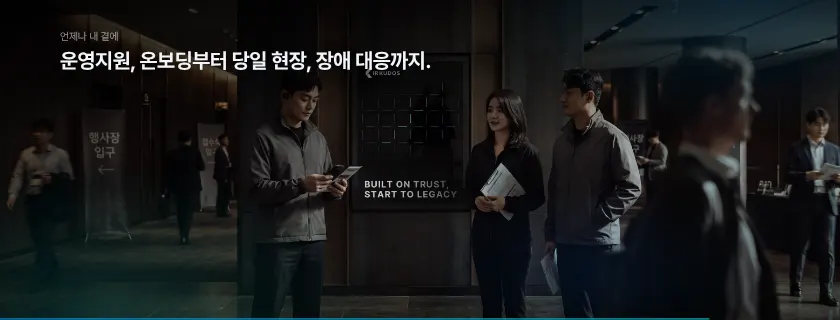
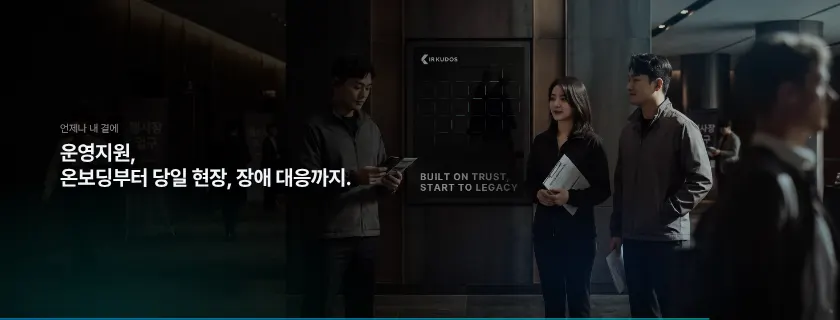
세션4 K27 처음 제목 한 줄만 가운데 크게 → 전환 → 왼쪽 세로 가운데 두 줄 + 사진, K30 Get Ready 점 형성 약 2배 빠르게
Claude-Session: https://claude.ai/code/session_01Mn7NmyW5iujmmHnaRBFKBZ

diff --git a/session4.html b/session4.html
@@ -2308,6 +2308,25 @@ html.r169 #K13 .dg{margin-bottom:210px!important}
 #K26 .k26p .sc{border-radius:52px!important}
 #K26 .k26s{left:3300px!important;height:1082px!important;align-items:flex-start!important;text-align:left!important;padding:0 72px 80px!important;box-sizing:border-box}
 #K26 .k26s i{background-position:62% 30%!important;background-size:cover!important}
+
+/* 11/27 23:52 K27: 처음엔 제목 한 줄만 화면 가운데 크게 → 1.9초에 흐려지며 전환 → 왼쪽 세로 가운데에 「언제나 내 곁에」 + 「운영지원, / 온보딩부터 …」(두 줄) + 사진 */
+#K27 .k27i{position:absolute;inset:0;display:flex;align-items:center;justify-content:center;z-index:5;pointer-events:none}
+#K27 .k27i h2{margin:0;font:700 132px/1.2 "Pretendard Variable",sans-serif;color:#F2F5FA;letter-spacing:-.02em;white-space:nowrap;opacity:0}
+html.r169 #K27 .k27i h2{font-size:104px}
+.s.cur#K27 .k27i h2{animation:k27in 2.3s cubic-bezier(.2,.7,.2,1) .15s both}
+@keyframes k27in{0%{opacity:0;filter:blur(14px);transform:scale(1.04)}22%{opacity:1;filter:blur(0);transform:none}72%{opacity:1;filter:blur(0);transform:none}100%{opacity:0;filter:blur(16px);transform:scale(.97)}}
+#K27 .sec-c{justify-content:center!important;padding:0 0 40px!important;opacity:0}
+.s.cur#K27 .sec-c{animation:k27f .9s cubic-bezier(.2,.7,.2,1) 2.1s both!important}
+@keyframes k27f{from{opacity:0;translate:-40px 0}to{opacity:1;translate:0 0}}
+#K27 .sec-h{font-size:112px!important;line-height:1.22!important}
+html.r169 #K27 .sec-c{padding:0 0 40px!important}
+html.r169 #K27 .sec-h{font-size:96px!important}
+.s.cur#K27 .photo{animation:k27p2 1.6s cubic-bezier(.2,.7,.2,1) 1.9s both!important}
+.s.cur#K27 .shade{animation:k27s .1s linear 1.9s both!important}
+#K27.sec .shade{background:linear-gradient(90deg,rgba(0,0,0,.82) 0%,rgba(0,0,0,.6) 30%,rgba(0,0,0,.15) 55%,rgba(0,0,0,0) 70%),linear-gradient(0deg,rgba(0,0,0,.35) 0%,rgba(0,0,0,0) 18%)!important}
+#K27.sec .shade{background:linear-gradient(90deg,rgba(0,0,0,.88) 0%,rgba(0,0,0,.74) 36%,rgba(0,0,0,.3) 52%,rgba(0,0,0,0) 66%),linear-gradient(0deg,rgba(0,0,0,.35) 0%,rgba(0,0,0,0) 18%)!important}
+#K27 .photo{background-size:114% auto!important;background-position:0% bottom!important}
+#K27 .sec-h{font-size:104px!important}
 /* ═════ 16:9 버전 (?a=16x9, 11/27) ═════
    ※ 빔프로젝터(led.html?a=16x9) M7-7이 이 모드를 씀. 장을 고치면 ?a=16x9로도 확인하고, 21:8 원본 위치를 바꾸면 아래 html.r169 #Kxx 규칙도 같이 맞출 것.
       R169Z(묶음 축소) 장은 내용 범위를 자동으로 재서 배치하므로 대부분 따라감.
@@ -2846,7 +2865,7 @@ html.r169 #K28p .k28bg{top:800px}
 <!-- ═════════ 6. 운영지원 ═════════ -->
 <section class="s ch sec fl" id="K27" data-t="장 표지 · 운영지원" data-dim="0">
  <div class="photo"></div><div class="shade"></div><div class="au"></div>
- <div class="sec-c"><p class="k27e fu" style="--i:0">언제나 내 곁에</p><h2 class="sec-h fu" style="--i:1">운영지원, 온보딩부터 당일 현장, 장애 대응까지.</h2></div>
+ <div class="k27i"><h2>운영지원, 온보딩부터 당일 현장, 장애 대응까지.</h2></div><div class="sec-c"><p class="k27e">언제나 내 곁에</p><h2 class="sec-h">운영지원,<br>온보딩부터 당일 현장, 장애 대응까지.</h2></div>
 </section>
 
 <section class="s" id="K28a" data-t="운영지원 1 · 온보딩" data-dim=".1">
@@ -3210,19 +3229,20 @@ const VIZ={};
 const C1=[0,129,204],C2=[0,173,169];const mix=(t)=>`rgb(${C1.map((c,i)=>Math.round(c+(C2[i]-c)*t)).join(',')})`;
 function textPts(cv,text,font,gap){const o=document.createElement('canvas');o.width=cv.width;o.height=cv.height;const g=o.getContext('2d');g.fillStyle='#fff';g.font=font;g.textAlign='center';g.textBaseline='middle';g.fillText(text,o.width/2,o.height/2+o.height*.03);const d=g.getImageData(0,0,o.width,o.height).data,p=[];for(let y=0;y<o.height;y+=gap)for(let x=0;x<o.width;x+=gap)if(d[(y*o.width+x)*4+3]>(cv.dataset.th?+cv.dataset.th:128))p.push([x+(Math.random()-.5)*2,y+(Math.random()-.5)*2]);return p;}
 VIZ.text=(cv)=>{const g=cv.getContext('2d'),S=cv.closest('section');let P=null,H=null,t0=0,tl=0,tp=0;
+ /* 11/27 23:55 형성 속도 약 2배(지연 0.1~0.6초 · 1초 동안 모임) */
  /* 11/27 21:20 K30: 글씨 점이 화면 바깥 사방에서 안으로 모여 「Get Ready.」를 이룸(가까운 점부터), 주변 작은 점은 Data Stream처럼 떠다님.
     로고 벽으로 넘어갈 때(p2)는 반대로 점이 바깥으로 퍼지며 사라지고, 그 뒤 기업 목록이 켜짐 */
  const out=(x,y)=>{const cx=cv.width/2,cy=cv.height/2,a=Math.atan2(y-cy,x-cx)+(Math.random()-.5)*1.2,R=cv.width*(.55+Math.random()*.5);return[cx+Math.cos(a)*R,cy+Math.sin(a)*R*.6];};
  return{enter(){const pts=textPts(cv,cv.dataset.text,cv.dataset.font,cv.dataset.text.length>5?17:20);
-   P=pts.map(([x,y])=>{const[sx,sy]=out(x,y),[ex,ey]=out(x,y);return{x,y,sx,sy,ex,ey,d:200+Math.random()*1100,de:Math.random()*350,r:4.2+Math.random()*2.4};});
-   H=[...Array(1700)].map(()=>{const b=pts[Math.floor(Math.random()*pts.length)],a=Math.random()*Math.PI*2,dist=20+Math.pow(Math.random(),1.6)*600;return{x:b[0]+Math.cos(a)*dist*1.6,y:b[1]+Math.sin(a)*dist*.75,ox:b[0],oy:b[1],r:1.8+Math.random()*3.4,al:.3+Math.random()*.6,ph:Math.random()*7,sp:.3+Math.random()*.9,d:1600+Math.random()*1400,dr:dist};});t0=performance.now();tl=t0;tp=0;},
+   P=pts.map(([x,y])=>{const[sx,sy]=out(x,y),[ex,ey]=out(x,y);return{x,y,sx,sy,ex,ey,d:100+Math.random()*500,de:Math.random()*350,r:4.2+Math.random()*2.4};});
+   H=[...Array(1700)].map(()=>{const b=pts[Math.floor(Math.random()*pts.length)],a=Math.random()*Math.PI*2,dist=20+Math.pow(Math.random(),1.6)*600;return{x:b[0]+Math.cos(a)*dist*1.6,y:b[1]+Math.sin(a)*dist*.75,ox:b[0],oy:b[1],r:1.8+Math.random()*3.4,al:.3+Math.random()*.6,ph:Math.random()*7,sp:.3+Math.random()*.9,d:900+Math.random()*800,dr:dist};});t0=performance.now();tl=t0;tp=0;},
  draw(t){if(!P)return;tl=t;const p2=S&&S.classList.contains('p2');if(p2&&!tp)tp=t;if(!p2)tp=0;
   g.clearRect(0,0,cv.width,cv.height);g.fillStyle='#F2F5FA';
   const X=tp?Math.min(1,(t-tp)/1400):0;  /* 퍼짐 진행 */
-  for(const p of P){let k=Math.min(1,Math.max(0,(t-t0-p.d)/1700));k=1-Math.pow(1-k,3);let x=p.sx+(p.x-p.sx)*k,y=p.sy+(p.y-p.sy)*k+Math.sin(t/900+p.x*.02)*2*k,a=.15+.85*k;
+  for(const p of P){let k=Math.min(1,Math.max(0,(t-t0-p.d)/1000));k=1-Math.pow(1-k,3);let x=p.sx+(p.x-p.sx)*k,y=p.sy+(p.y-p.sy)*k+Math.sin(t/900+p.x*.02)*2*k,a=.15+.85*k;
    if(tp){let q=Math.min(1,Math.max(0,(t-tp-p.de)/1100));q=q*q*q;x+=(p.ex-x)*q;y+=(p.ey-y)*q;a*=1-q;}
    if(a<=.01)continue;g.globalAlpha=a;g.beginPath();g.arc(x,y,p.r,0,7);g.fill();}
-  for(const h of H){const k=Math.min(1,Math.max(0,(t-t0-h.d)/1800));if(k<=0)continue;const e=1-Math.pow(1-k,3),w=t/1000*h.sp+h.ph;
+  for(const h of H){const k=Math.min(1,Math.max(0,(t-t0-h.d)/1200));if(k<=0)continue;const e=1-Math.pow(1-k,3),w=t/1000*h.sp+h.ph;
    let x=h.ox+(h.x-h.ox)*e+Math.cos(w)*14,y=h.oy+(h.y-h.oy)*e+Math.sin(w*1.3)*9,a=h.al*e*(.55+.45*Math.sin(w*2.1))*(1-Math.min(1,h.dr/560)*.5);
    if(tp){const q=X*X;x+=(x-cv.width/2)*q*1.2;y+=(y-cv.height/2)*q*1.2;a*=1-X;}
    if(a<=.01)continue;g.globalAlpha=a;g.beginPath();g.arc(x,y,h.r,0,7);g.fill();}

diff --git a/sw.js b/sw.js
@@ -1,5 +1,5 @@
 /* 오프라인 캐시 — 온라인 주소(https)로 한 번 열면 모든 파일을 저장해 두고, 통신이 끊겨도 저장본으로 동작합니다. */
-const V='seminar-screen-11272327';
+const V='seminar-screen-11272329';
 const FILES=["./","assets/KakaoBigSans-Bold.woff2","assets/KakaoBigSans-Regular.woff2","assets/KakaoSmallSans-Bold.woff2","assets/KakaoSmallSans-Light.woff2","assets/KakaoSmallSans-Regular.woff2","assets/OrbitControls.js","assets/PretendardVariable.woff2","assets/attendees.js","assets/blue-bloom.html","assets/cong1.webp","assets/cong2.webp","assets/ds-bg.html","assets/four-states.html","assets/intro.mp4","assets/irk-white.svg","assets/irk-wordmark-white.svg","assets/kism-intro.mp4","assets/kism-white.svg","assets/ksmp-white.svg","assets/panel.js","assets/qa-online.js","assets/s2/img1.png","assets/s2/img2.png","assets/s2/img3.png","assets/s2/img4.png","assets/s4/aws.webp","assets/s4/callcenter.webp","assets/s4/chair-1.webp","assets/s4/chair-2.webp","assets/s4/chair-3.webp","assets/s4/conexus-word.webp","assets/s4/ctl-1.webp","assets/s4/cx-1.webp","assets/s4/cx-2.webp","assets/s4/cx-3.webp","assets/s4/cx-flow.mp4","assets/s4/cx-pop1.webp","assets/s4/cx-pop2.webp","assets/s4/cx-vote.mp4","assets/s4/cx-vote.webp","assets/s4/cxs-1.webp","assets/s4/insurance.webp","assets/s4/isms-t.webp","assets/s4/isms.webp","assets/s4/ismsp-t.webp","assets/s4/ismsp.webp","assets/s4/kosmos-white.png","assets/s4/ks-1.webp","assets/s4/ks-2.webp","assets/s4/ks-3.webp","assets/s4/ks-4.webp","assets/s4/ks-5.webp","assets/s4/ks-video.webp","assets/s4/live-1.webp","assets/s4/live-2.webp","assets/s4/live-3.webp","assets/s4/live-4.webp","assets/s4/live-5.webp","assets/s4/live-6.webp","assets/s4/live-7.webp","assets/s4/live-8.webp","assets/s4/logos.webp","assets/s4/ocr-1.webp","assets/s4/ocr-2.webp","assets/s4/ocr-3.webp","assets/s4/ocr-4.webp","assets/s4/ocr-5.webp","assets/s4/on-1.png","assets/s4/on-2.webp","assets/s4/on-3.webp","assets/s4/on-4.png","assets/s4/on-5.webp","assets/s4/onboard-1.webp","assets/s4/onboard-2.webp","assets/s4/privacy.webp","assets/s4/proxymity.svg","assets/s4/rehearsal.webp","assets/s4/streaming-korea.webp","assets/s4/tab-1.webp","assets/s4/tab-2.webp","assets/s4/team.webp","assets/sched.js","assets/screen-title-2.svg","assets/screen-title-b-text.svg","assets/screen-title-b.svg","assets/seat-banners.js","assets/seat-fascia.js","assets/seat-screen.js","assets/seatmap.js","assets/service-intro.mp4","assets/speaker-scott.webp","assets/speaker1-1.webp","assets/speaker2.webp","assets/speaker3-1.webp","assets/supabase.min.js","assets/three.min.js","assets/title-logos.svg","control.html","index-fs.html","index.html","kism.html","lobby/cuts.html","lobby/index.html","mc.html","session2.html","session4.html","sw.js","tools/s2_build.py","tools/s2_shell.html","assets/s3/p01.webp","assets/s3/p02.webp","assets/s3/p03.webp","assets/s3/p04.webp","assets/s3/p05.webp","assets/s3/p06.webp","assets/s3/p07.webp","assets/s3/p08.webp","assets/s3/p09.webp","assets/s3/p10.webp","assets/s3/p11.webp","assets/s3/p12.webp","assets/s3/p13.webp","assets/s3/p14.webp","assets/s3/p15.webp","assets/s3/p16.webp","assets/s3/p17.webp","assets/s3/p18.webp","assets/s3/p19.webp","assets/s3/p20.webp","assets/s3/p21.webp","assets/s3/p22.webp","assets/s3/p23.webp","assets/kism/photo-main.webp","assets/kism/photo-2.webp","assets/kism/photo-3.webp","assets/kism/photo-4.webp","assets/sound/countdown-tick.mp3","assets/sound/sfx-s3-part.mp3","assets/sound/sfx-s4-reveal.mp3","assets/sound/sfx-s5-proxymity.mp3","assets/sound/sfx-s6-chime.mp3","assets/sound/sfx-s7-close.mp3","assets/sound/sfx-k-chapter.mp3","assets/sound/sfx-k-close.mp3","assets/sound/opening-hit.mp3","assets/s4/kosmos-color.svg","assets/s4/ke-logo.png","assets/s4/ke-live.mp4","assets/kism/kwon-talk.mp4","assets/kism/manual-book.webp","kism-open.html","kism_16x9.html","led.html","assets/s4/cx-ops.mp4","assets/s4/cx-ops.webp","assets/s4/agent-app.mp4","assets/s4/kosmos-web.webp","assets/s4/ks-attend.mp4","assets/s4/ks-attend.webp","assets/s4/ks-switch.mp4","assets/s4/ks-switch.webp","assets/s4/ks-notify.mp4","assets/s4/ks-notify.webp","assets/s4/ks-vote.mp4","assets/s4/ks-vote.webp","assets/s4/ks-qna.mp4","assets/s4/ks-qna.webp","assets/s4/pc-map.webp","assets/s4/pc-map.mp4","assets/s4/pc-web.mp4","assets/s4/pc-web.webp","assets/s4/agent-app.webp","assets/s4/k24b-bg.webp","session0.html","face.html","assets/face-link.js","assets/kism/photo-main-cut.webp","assets/s4/cx-chair.mp4","assets/s4/cx-chair.webp","assets/s4/cx-test.mp4","assets/s4/cx-test.webp","assets/s4/onboard-mgr.webp","assets/s4/proxymity-logo.png","assets/s4/k21-bg.webp","assets/s4/kosmos-admin-white.svg","assets/kism-intro-16x9.mp4","assets/seat-guide.html","assets/s4/app-icon-agent.svg","assets/ds-main.mp4","assets/s4/k2-agency.webp","assets/s4/k2-support.webp","assets/s4/thumbs/K00.webp","assets/s4/thumbs/K01.webp","assets/s4/thumbs/K02.webp","assets/s4/thumbs/K03.webp","assets/s4/thumbs/K04.webp","assets/s4/thumbs/K05.webp","assets/s4/thumbs/K06.webp","assets/s4/thumbs/K07.webp","assets/s4/thumbs/K08.webp","assets/s4/thumbs/K09.webp","assets/s4/thumbs/K10.webp","assets/s4/thumbs/K11.webp","assets/s4/thumbs/K12.webp","assets/s4/thumbs/K13.webp","assets/s4/thumbs/K14.webp","assets/s4/thumbs/K15.webp","assets/s4/thumbs/K16.webp","assets/s4/thumbs/K17.webp","assets/s4/thumbs/K18a.webp","assets/s4/thumbs/K18b.webp","assets/s4/thumbs/K18c.webp","assets/s4/thumbs/K19.webp","assets/s4/thumbs/K19b.webp","assets/s4/thumbs/K19c.webp","assets/s4/thumbs/K20.webp","assets/s4/thumbs/K21.webp","assets/s4/thumbs/K21b.webp","assets/s4/thumbs/K22s.webp","assets/s4/thumbs/K23.webp","assets/s4/thumbs/K23b.webp","assets/s4/thumbs/K24a.webp","assets/s4/thumbs/K24b.webp","assets/s4/thumbs/K24c.webp","assets/s4/thumbs/K25.webp","assets/s4/thumbs/K25b.webp","assets/s4/thumbs/K26.webp","assets/s4/thumbs/K27.webp","assets/s4/thumbs/K28a.webp","assets/s4/thumbs/K28b.webp","assets/s4/thumbs/K28c.webp","assets/s4/thumbs/K28d.webp","assets/s4/thumbs/K29.webp","assets/s4/thumbs/K30.webp","assets/s4/thumbs/K09b.webp","assets/s4/thumbs/K28e.webp","assets/s4/thumbs/K28p.webp","assets/s4/onsite-vote.mp4","assets/s4/onsite-vote.webp","assets/s4/rehearsal-site.webp","assets/qr-ask.svg","assets/inv/bnp.png","assets/inv/bny.png","assets/inv/citi.png","assets/inv/computershare.png","assets/inv/deutsche-bank.png","assets/inv/deutsche-boerse.png","assets/inv/euroclear.png","assets/inv/hsbc.png","assets/inv/jpmorgan.png","assets/inv/mufg.png","assets/inv/state-street.png","assets/proxymity-logo.png","assets/sound/break-bgm.mp3","assets/sound/wait-bgm.mp3","assets/s4/beacon.webp","assets/s4/k27-partner.webp"];
 self.addEventListener('install',e=>{e.waitUntil(caches.open(V).then(c=>c.addAll(FILES)).then(()=>self.skipWaiting()));});
 self.addEventListener('activate',e=>{e.waitUntil(caches.keys().then(ks=>Promise.all(ks.filter(k=>k!==V).map(k=>caches.delete(k)))).then(()=>self.clients.claim()));});
